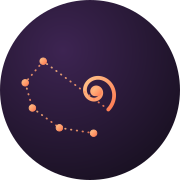
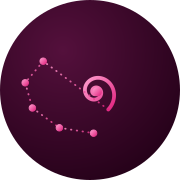
Add files via upload

diff --git a/assets/css/style.css b/assets/css/style.css
@@ -7,23 +7,23 @@
 
 :root{
   /* ---- palette : notte onirica + terracotta calda ---- */
-  --deep-1:#150f1c;
-  --deep-2:#241a33;
-  --deep-3:#33224a;
-  --paper:#faf5ec;
-  --paper-soft:#f3ead9;
-  --paper-dim:#e9dcc6;
-  --ink:#1d1620;
-  --ink-soft:#584d63;
-  --ink-faint:#8a7f92;
-  --coral:#ff6b4a;
-  --coral-deep:#e0502f;
-  --coral-light:#ffb27a;
-  --gold:#f2b84b;
-  --lilac:#a996e6;
-  --lilac-soft:#cabdf2;
+  --deep-1:#210016;
+  --deep-2:#3a0729;
+  --deep-3:#54103c;
+  --paper:#fffbf4;
+  --paper-soft:#fbf0e4;
+  --paper-dim:#f3e2ce;
+  --ink:#241019;
+  --ink-soft:#6b4f60;
+  --ink-faint:#a58a9b;
+  --coral:#e0227e;
+  --coral-deep:#a6115c;
+  --coral-light:#ff8fc4;
+  --gold:#f0a8cb;
+  --lilac:#c13e93;
+  --lilac-soft:#f3c6e1;
   --line-dark: rgba(255,255,255,.14);
-  --line-light: rgba(29,22,32,.12);
+  --line-light: rgba(36,16,25,.12);
 
   --font-display: "Fraunces", "Iowan Old Style", serif;
   --font-body: "Sora", "Segoe UI", sans-serif;
@@ -33,8 +33,8 @@
   --radius-md: 18px;
   --radius-sm: 10px;
 
-  --shadow-soft: 0 20px 60px -20px rgba(21,15,28,.35);
-  --shadow-card: 0 12px 30px -12px rgba(21,15,28,.22);
+  --shadow-soft: 0 20px 60px -20px rgba(36,16,25,.35);
+  --shadow-card: 0 12px 30px -12px rgba(36,16,25,.22);
 
   --ease: cubic-bezier(.16,.8,.24,1);
 }
@@ -79,7 +79,7 @@ input,textarea,select{ font-family:inherit; font-size:1rem; }
 .on-dark .eyebrow, .hero .eyebrow, .section-dark .eyebrow, .page-hero .eyebrow{ color:var(--coral-light); }
 
 .lede{ font-size:1.2rem; color:var(--ink-soft); max-width:640px; }
-.on-dark .lede{ color:#d9d0e6; }
+.on-dark .lede{ color:#ecd0df; }
 
 /* ---------- buttons ---------- */
 .btn{
@@ -88,11 +88,11 @@ input,textarea,select{ font-family:inherit; font-size:1rem; }
   border:1px solid transparent; transition:transform .35s var(--ease), box-shadow .35s var(--ease), background .35s var(--ease), color .35s var(--ease), border-color .35s var(--ease);
   white-space:nowrap;
 }
-.btn-primary{ background:linear-gradient(135deg,var(--coral-light),var(--coral)); color:#1c0f0a; box-shadow:0 14px 30px -12px rgba(255,107,74,.55); }
-.btn-primary:hover{ transform:translateY(-2px); box-shadow:0 18px 34px -10px rgba(255,107,74,.65); }
+.btn-primary{ background:linear-gradient(135deg,var(--coral-light),var(--coral)); color:#1c0f0a; box-shadow:0 14px 30px -12px rgba(224,34,126,.55); }
+.btn-primary:hover{ transform:translateY(-2px); box-shadow:0 18px 34px -10px rgba(224,34,126,.65); }
 .btn-ghost{ background:transparent; border-color:var(--line-light); color:var(--ink); }
 .btn-ghost:hover{ border-color:var(--ink); }
-.on-dark .btn-ghost, .hero .btn-ghost, .section-dark .btn-ghost, .page-hero .btn-ghost{ border-color:var(--line-dark); color:#f4eee0; }
+.on-dark .btn-ghost, .hero .btn-ghost, .section-dark .btn-ghost, .page-hero .btn-ghost{ border-color:var(--line-dark); color:#fbeef4; }
 .on-dark .btn-ghost:hover, .hero .btn-ghost:hover, .section-dark .btn-ghost:hover, .page-hero .btn-ghost:hover{ border-color:#fff; }
 .btn-line{ background:none; padding:0; border-radius:0; gap:8px; font-weight:600; color:var(--coral-deep); border-bottom:1px solid currentColor; padding-bottom:2px; }
 .btn-line:hover{ gap:12px; }
@@ -109,24 +109,24 @@ input,textarea,select{ font-family:inherit; font-size:1rem; }
 }
 .site-nav .container{ display:flex; align-items:center; justify-content:space-between; gap:24px; flex-wrap:nowrap; }
 .nav-toggle{ flex-shrink:0; }
-.brand{ min-width:0; }
+.brand{ flex-shrink:0; }
 .site-nav.is-scrolled{
   padding:12px 0;
-  background:rgba(21,15,28,.82);
+  background:rgba(36,16,25,.82);
   backdrop-filter:blur(14px);
   box-shadow:0 10px 30px -18px rgba(0,0,0,.5);
 }
-.brand{ display:flex; align-items:center; gap:12px; color:#f6f0e4; }
+.brand{ display:flex; align-items:center; gap:12px; color:#fbeef4; }
 .brand-mark{ width:38px; height:38px; color:var(--coral-light); flex-shrink:0; }
 .brand-mark svg{ width:100%; height:100%; }
-.brand-text{ display:flex; flex-direction:column; line-height:1.15; }
-.brand-name{ font-family:var(--font-display); font-size:1.05rem; font-weight:600; letter-spacing:.01em; }
-.brand-tag{ font-size:.68rem; letter-spacing:.1em; text-transform:uppercase; opacity:.68; }
+.brand-text{ display:flex; flex-direction:column; line-height:1.15; white-space:nowrap; }
+.brand-name{ font-family:var(--font-display); font-size:1.05rem; font-weight:600; letter-spacing:.01em; white-space:nowrap; }
+.brand-tag{ font-size:.68rem; letter-spacing:.1em; text-transform:uppercase; opacity:.68; white-space:nowrap; }
 
 .nav-links{ display:flex; align-items:center; gap:0; }
 .nav-links a{
   display:inline-block; padding:9px 11px; font-size:.8rem; font-weight:500; white-space:nowrap;
-  color:#e9e2f2; opacity:.78; border-radius:100px; transition:opacity .25s, background .25s;
+  color:#f2dbe9; opacity:.78; border-radius:100px; transition:opacity .25s, background .25s;
 }
 .nav-links a:hover{ opacity:1; background:rgba(255,255,255,.08); }
 .nav-links a.active{ opacity:1; color:var(--coral-light); }
@@ -136,7 +136,7 @@ input,textarea,select{ font-family:inherit; font-size:1rem; }
   background:rgba(255,255,255,.05); position:relative; flex-shrink:0;
 }
 .nav-toggle span, .nav-toggle::before, .nav-toggle::after{
-  content:""; position:absolute; left:12px; right:12px; height:1.5px; background:#f4eee0;
+  content:""; position:absolute; left:12px; right:12px; height:1.5px; background:#fbeef4;
   transition:transform .3s var(--ease), opacity .3s var(--ease), top .3s var(--ease);
 }
 .nav-toggle::before{ top:16px; }
@@ -167,7 +167,7 @@ input,textarea,select{ font-family:inherit; font-size:1rem; }
 .hero{
   position:relative; min-height:100svh; display:flex; align-items:center;
   background:radial-gradient(120% 90% at 18% 8%, var(--deep-3), var(--deep-1) 62%);
-  color:#f6f0e4; overflow:hidden; padding-top:120px; padding-bottom:80px;
+  color:#fbeef4; overflow:hidden; padding-top:120px; padding-bottom:80px;
 }
 .hero-canvas{ position:absolute; inset:0; width:100%; height:100%; opacity:.65; }
 .hero-glow{
@@ -187,7 +187,7 @@ input,textarea,select{ font-family:inherit; font-size:1rem; }
 .typewriter{
   font-family:var(--font-display); font-style:italic; font-weight:500;
   font-size:clamp(1.7rem, 4.4vw, 3.2rem); line-height:1.28; letter-spacing:-.01em;
-  color:#fbf6ec;
+  color:#fdf3f8;
 }
 .typewriter .cursor{
   display:inline-block; width:3px; height:1em; background:var(--coral-light);
@@ -196,7 +196,7 @@ input,textarea,select{ font-family:inherit; font-size:1rem; }
 @keyframes blink{ 50%{ opacity:0; } }
 
 .hero-sub{
-  margin-top:30px; font-size:1.15rem; color:#d9d0e6; max-width:560px;
+  margin-top:30px; font-size:1.15rem; color:#ecd0df; max-width:560px;
   opacity:0; transform:translateY(10px);
   transition:opacity .9s var(--ease), transform .9s var(--ease);
 }
@@ -215,21 +215,21 @@ input,textarea,select{ font-family:inherit; font-size:1rem; }
   opacity:0; transform:translateY(10px);
   transition:opacity .9s var(--ease), transform .9s var(--ease);
 }
-.hero-credentials div{ font-size:.8rem; color:#c9bfda; }
-.hero-credentials strong{ display:block; font-family:var(--font-display); font-size:1.5rem; color:#fbf6ec; font-weight:600; }
+.hero-credentials div{ font-size:.8rem; color:#d9b8cd; }
+.hero-credentials strong{ display:block; font-family:var(--font-display); font-size:1.5rem; color:#fdf3f8; font-weight:600; }
 
 .scroll-cue{
   position:absolute; left:50%; bottom:34px; transform:translateX(-50%);
-  display:flex; flex-direction:column; align-items:center; gap:8px; color:#cabdf2; font-size:.7rem;
+  display:flex; flex-direction:column; align-items:center; gap:8px; color:#eab8d9; font-size:.7rem;
   letter-spacing:.14em; text-transform:uppercase; opacity:0;
   transition:opacity 1s var(--ease);
 }
-.scroll-cue .line{ width:1px; height:34px; background:linear-gradient(#cabdf2, transparent); animation:cue-move 2.2s ease-in-out infinite; }
+.scroll-cue .line{ width:1px; height:34px; background:linear-gradient(#eab8d9, transparent); animation:cue-move 2.2s ease-in-out infinite; }
 @keyframes cue-move{ 0%{ transform:scaleY(.4); transform-origin:top; } 50%{ transform:scaleY(1); transform-origin:top; } 100%{ transform:scaleY(.4); transform-origin:top; } }
 
 /* page hero (sottopagine) */
 .page-hero{
-  position:relative; padding:190px 0 100px; color:#f6f0e4; overflow:hidden;
+  position:relative; padding:190px 0 100px; color:#fbeef4; overflow:hidden;
   background:radial-gradient(130% 100% at 85% 0%, var(--deep-3), var(--deep-1) 60%);
 }
 .page-hero .blob{ position:absolute; filter:blur(60px); opacity:.5; mix-blend-mode:screen; border-radius:50%; }
@@ -261,7 +261,7 @@ input,textarea,select{ font-family:inherit; font-size:1rem; }
 .manifesto-visual .ring.r1{ inset:0; }
 .manifesto-visual .ring.r2{ inset:12%; border-style:dashed; opacity:.6; }
 .manifesto-visual .ring.r3{ inset:24%; background:linear-gradient(135deg, var(--paper-dim), var(--paper-soft)); border:none; }
-.manifesto-visual .spark{ position:absolute; width:10px; height:10px; border-radius:50%; background:var(--coral); box-shadow:0 0 0 6px rgba(255,107,74,.15); }
+.manifesto-visual .spark{ position:absolute; width:10px; height:10px; border-radius:50%; background:var(--coral); box-shadow:0 0 0 6px rgba(224,34,126,.15); }
 .manifesto-visual .mark-center{ position:absolute; inset:32%; color:var(--coral-deep); }
 .manifesto-visual .mark-center svg{ width:100%; height:100%; }
 
@@ -289,11 +289,11 @@ input,textarea,select{ font-family:inherit; font-size:1rem; }
 
 .service-card{
   position:relative; background:#fff; border-radius:var(--radius-md); padding:38px 32px;
-  box-shadow:var(--shadow-card); border:1px solid rgba(29,22,32,.05);
+  box-shadow:var(--shadow-card); border:1px solid rgba(36,16,25,.05);
   transition:transform .45s var(--ease), box-shadow .45s var(--ease);
   display:flex; flex-direction:column; height:100%;
 }
-.service-card:hover{ transform:translateY(-6px); box-shadow:0 26px 50px -18px rgba(21,15,28,.28); }
+.service-card:hover{ transform:translateY(-6px); box-shadow:0 26px 50px -18px rgba(36,16,25,.28); }
 .service-card .icon{
   width:52px; height:52px; border-radius:16px; display:flex; align-items:center; justify-content:center;
   margin-bottom:22px; color:#fff; background:linear-gradient(135deg,var(--coral-light),var(--coral-deep));
@@ -311,8 +311,8 @@ input,textarea,select{ font-family:inherit; font-size:1rem; }
    DARK SECTION (crisis / cta banners)
    ========================================================= */
 .section-dark{ background:var(--deep-1); color:#f2ece0; position:relative; overflow:hidden; }
-.section-dark .lede{ color:#cfc4dd; }
-.section-dark h2{ color:#fbf6ec; }
+.section-dark .lede{ color:#ddbdd0; }
+.section-dark h2{ color:#fdf3f8; }
 
 .crisis-card{
   position:relative; z-index:1; display:grid; grid-template-columns:1.1fr .9fr; gap:60px; align-items:center;
@@ -334,7 +334,7 @@ input,textarea,select{ font-family:inherit; font-size:1rem; }
 }
 .about-photo .frame img{ width:100%; height:100%; object-fit:cover; filter:saturate(1.05) contrast(1.03); }
 .about-photo .frame::after{
-  content:""; position:absolute; inset:0; background:linear-gradient(200deg, rgba(255,107,74,.16), rgba(36,26,51,.22));
+  content:""; position:absolute; inset:0; background:linear-gradient(200deg, rgba(224,34,126,.16), rgba(58,7,41,.22));
   mix-blend-mode:multiply; opacity:.5;
 }
 .about-photo .ring-deco{ position:absolute; inset:-18px; border:1px dashed var(--line-light); border-radius:38% 62% 60% 40% / 46% 40% 60% 54%; z-index:-1; }
@@ -358,11 +358,11 @@ input,textarea,select{ font-family:inherit; font-size:1rem; }
 .footer-grid{ display:grid; grid-template-columns:1.3fr 1fr 1fr 1fr; gap:40px; padding-bottom:56px; border-bottom:1px solid var(--line-dark); }
 @media (max-width:900px){ .footer-grid{ grid-template-columns:1fr 1fr; } }
 @media (max-width:560px){ .footer-grid{ grid-template-columns:1fr; } }
-.footer-brand p{ color:#c9bfda; font-size:.92rem; max-width:280px; }
+.footer-brand p{ color:#d9b8cd; font-size:.92rem; max-width:280px; }
 .footer-col h4{ font-family:var(--font-body); font-size:.78rem; letter-spacing:.1em; text-transform:uppercase; color:var(--coral-light); margin-bottom:16px; }
-.footer-col a, .footer-col p{ display:block; color:#d8d0e4; font-size:.92rem; margin-bottom:10px; opacity:.9; }
+.footer-col a, .footer-col p{ display:block; color:#e6cddc; font-size:.92rem; margin-bottom:10px; opacity:.9; }
 .footer-col a:hover{ color:#fff; opacity:1; }
-.footer-bottom{ display:flex; justify-content:space-between; align-items:center; padding-top:26px; flex-wrap:wrap; gap:10px; font-size:.78rem; color:#9c8fae; }
+.footer-bottom{ display:flex; justify-content:space-between; align-items:center; padding-top:26px; flex-wrap:wrap; gap:10px; font-size:.78rem; color:#a98a9c; }
 .footer-bottom a:hover{ color:#fff; }
 
 /* =========================================================
@@ -394,9 +394,9 @@ input,textarea,select{ font-family:inherit; font-size:1rem; }
 
 .pricing-grid{ display:grid; grid-template-columns:repeat(2,1fr); gap:24px; margin:30px 0 10px; }
 @media (max-width:640px){ .pricing-grid{ grid-template-columns:1fr; } }
-.price-card{ padding:28px; border-radius:var(--radius-md); background:var(--deep-1); color:#f4eee0; position:relative; overflow:hidden; }
+.price-card{ padding:28px; border-radius:var(--radius-md); background:var(--deep-1); color:#fbeef4; position:relative; overflow:hidden; }
 .price-card .amount{ font-family:var(--font-display); font-size:2.2rem; color:var(--coral-light); margin:8px 0; }
-.price-card p{ color:#c9bfda; font-size:.9rem; margin:0; }
+.price-card p{ color:#d9b8cd; font-size:.9rem; margin:0; }
 .price-card.alt{ background:var(--paper-soft); color:var(--ink); }
 .price-card.alt .amount{ color:var(--coral-deep); }
 .price-card.alt p{ color:var(--ink-soft); }

diff --git a/index.html b/index.html
@@ -13,7 +13,7 @@
 <meta property="og:description" content="Psicoterapia, Costellazioni Familiari, Mindfulness e Mindful Eating: la cura psicologica attraverso l'immaginario, a Cesano Maderno (MB) e online.">
 <meta property="og:type" content="website">
 <meta property="og:image" content="assets/img/favicon-512.png">
-<meta name="theme-color" content="#150f1c">
+<meta name="theme-color" content="#210016">
 <link rel="preconnect" href="https://fonts.googleapis.com">
 <link rel="preconnect" href="https://fonts.gstatic.com" crossorigin>
 <link rel="stylesheet" href="assets/css/style.css">
@@ -131,16 +131,16 @@
       <svg viewBox="0 0 400 500" preserveAspectRatio="xMidYMid slice">
         <defs>
           <radialGradient id="crisisGrad" cx="30%" cy="20%" r="90%">
-            <stop offset="0%" stop-color="#4a3163"/>
-            <stop offset="100%" stop-color="#1c1327"/>
+            <stop offset="0%" stop-color="#54103c"/>
+            <stop offset="100%" stop-color="#210016"/>
           </radialGradient>
         </defs>
         <rect width="400" height="500" fill="url(#crisisGrad)"/>
-        <g stroke="#ffb27a" stroke-width="1" opacity="0.55" fill="none">
+        <g stroke="#ff8fc4" stroke-width="1" opacity="0.55" fill="none">
           <path d="M40 420 Q120 320 90 220 Q60 120 160 60"/>
           <path d="M360 440 Q290 360 320 260 Q350 160 260 90"/>
         </g>
-        <g fill="#ff9a62">
+        <g fill="#ff5fa8">
           <circle cx="160" cy="60" r="4"/>
           <circle cx="90" cy="220" r="3"/>
           <circle cx="40" cy="420" r="3.4"/>

diff --git a/assets/js/main.js b/assets/js/main.js
@@ -146,7 +146,7 @@
           var dx=p1.x-p2.x, dy=p1.y-p2.y;
           var dist=Math.sqrt(dx*dx+dy*dy);
           if(dist < maxDist){
-            ctx.strokeStyle = "rgba(255,178,122," + (0.16*(1-dist/maxDist)) + ")";
+            ctx.strokeStyle = "rgba(255,143,196," + (0.18*(1-dist/maxDist)) + ")";
             ctx.lineWidth = 1;
             ctx.beginPath(); ctx.moveTo(p1.x,p1.y); ctx.lineTo(p2.x,p2.y); ctx.stroke();
           }
@@ -154,7 +154,7 @@
       }
       points.forEach(function(p){
         ctx.beginPath();
-        ctx.fillStyle = "rgba(250,230,210,.85)";
+        ctx.fillStyle = "rgba(255,251,244,.9)";
         ctx.arc(p.x,p.y,p.r,0,Math.PI*2);
         ctx.fill();
       });

diff --git a/gravidanza.html b/gravidanza.html
@@ -13,7 +13,7 @@
 <meta property="og:description" content="Prevenire sovrappeso e obesità in gravidanza: cause ormonali e psicologiche delle voglie, e come gestirle con l'aiuto dello psicologo del comportamento alimentare.">
 <meta property="og:type" content="website">
 <meta property="og:image" content="assets/img/favicon-512.png">
-<meta name="theme-color" content="#150f1c">
+<meta name="theme-color" content="#210016">
 <link rel="preconnect" href="https://fonts.googleapis.com">
 <link rel="preconnect" href="https://fonts.gstatic.com" crossorigin>
 <link rel="stylesheet" href="assets/css/style.css">

diff --git a/pensa-snello.html b/pensa-snello.html
@@ -13,7 +13,7 @@
 <meta property="og:description" content="Pensa Snello: terapia cognitivo comportamentale e rêve-éveillé per rieducare il comportamento alimentare, perdere peso e mantenere il risultato nel tempo.">
 <meta property="og:type" content="website">
 <meta property="og:image" content="assets/img/favicon-512.png">
-<meta name="theme-color" content="#150f1c">
+<meta name="theme-color" content="#210016">
 <link rel="preconnect" href="https://fonts.googleapis.com">
 <link rel="preconnect" href="https://fonts.gstatic.com" crossorigin>
 <link rel="stylesheet" href="assets/css/style.css">

diff --git a/psicoterapia.html b/psicoterapia.html
@@ -13,7 +13,7 @@
 <meta property="og:description" content="Psicoterapia ad orientamento psicodinamico basata sul rêve-éveillé di Robert Desoille: un percorso individuale, di coppia o di gruppo a Cesano Maderno.">
 <meta property="og:type" content="website">
 <meta property="og:image" content="assets/img/favicon-512.png">
-<meta name="theme-color" content="#150f1c">
+<meta name="theme-color" content="#210016">
 <link rel="preconnect" href="https://fonts.googleapis.com">
 <link rel="preconnect" href="https://fonts.gstatic.com" crossorigin>
 <link rel="stylesheet" href="assets/css/style.css">

diff --git a/consulenze-on-line.html b/consulenze-on-line.html
@@ -13,7 +13,7 @@
 <meta property="og:description" content="Consulenza psicologica online via e-mail, chat o videochiamata, nel rispetto delle linee guida deontologiche del Consiglio Nazionale degli Psicologi.">
 <meta property="og:type" content="website">
 <meta property="og:image" content="assets/img/favicon-512.png">
-<meta name="theme-color" content="#150f1c">
+<meta name="theme-color" content="#210016">
 <link rel="preconnect" href="https://fonts.googleapis.com">
 <link rel="preconnect" href="https://fonts.gstatic.com" crossorigin>
 <link rel="stylesheet" href="assets/css/style.css">

diff --git a/costellazioni.html b/costellazioni.html
@@ -13,7 +13,7 @@
 <meta property="og:description" content="Psicogenealogia e Costellazioni Familiari ad approccio immaginale: genogramma, carte dei NAT e messa in scena, in consulto individuale o di gruppo.">
 <meta property="og:type" content="website">
 <meta property="og:image" content="assets/img/favicon-512.png">
-<meta name="theme-color" content="#150f1c">
+<meta name="theme-color" content="#210016">
 <link rel="preconnect" href="https://fonts.googleapis.com">
 <link rel="preconnect" href="https://fonts.gstatic.com" crossorigin>
 <link rel="stylesheet" href="assets/css/style.css">

diff --git a/mindful-eating.html b/mindful-eating.html
@@ -13,7 +13,7 @@
 <meta property="og:description" content="Il corso di Mindful Eating: 9 incontri per ritrovare il dialogo mente-corpo, riconoscere fame e sazietà e correggere il comportamento alimentare.">
 <meta property="og:type" content="website">
 <meta property="og:image" content="assets/img/favicon-512.png">
-<meta name="theme-color" content="#150f1c">
+<meta name="theme-color" content="#210016">
 <link rel="preconnect" href="https://fonts.googleapis.com">
 <link rel="preconnect" href="https://fonts.gstatic.com" crossorigin>
 <link rel="stylesheet" href="assets/css/style.css">

diff --git a/curriculum-vitae.html b/curriculum-vitae.html
@@ -13,7 +13,7 @@
 <meta property="og:description" content="Il percorso professionale e formativo di Roberta Musetti, Psicologa Psicoterapeuta iscritta all'Ordine degli Psicologi della Lombardia dal 2002.">
 <meta property="og:type" content="website">
 <meta property="og:image" content="assets/img/favicon-512.png">
-<meta name="theme-color" content="#150f1c">
+<meta name="theme-color" content="#210016">
 <link rel="preconnect" href="https://fonts.googleapis.com">
 <link rel="preconnect" href="https://fonts.gstatic.com" crossorigin>
 <link rel="stylesheet" href="assets/css/style.css">

diff --git a/mindfulness.html b/mindfulness.html
@@ -13,7 +13,7 @@
 <meta property="og:description" content="Mindfulness e Mindfulness Immaginale: consapevolezza del momento presente, tra meditazione, psicologia immaginale e riduzione dello stress.">
 <meta property="og:type" content="website">
 <meta property="og:image" content="assets/img/favicon-512.png">
-<meta name="theme-color" content="#150f1c">
+<meta name="theme-color" content="#210016">
 <link rel="preconnect" href="https://fonts.googleapis.com">
 <link rel="preconnect" href="https://fonts.gstatic.com" crossorigin>
 <link rel="stylesheet" href="assets/css/style.css">

diff --git a/momento-di-crisi.html b/momento-di-crisi.html
@@ -13,7 +13,7 @@
 <meta property="og:description" content="Attraversi un momento di crisi con te stesso o con gli altri? Come la psicoterapia può aiutarti a riorganizzare le tue strategie di vita.">
 <meta property="og:type" content="website">
 <meta property="og:image" content="assets/img/favicon-512.png">
-<meta name="theme-color" content="#150f1c">
+<meta name="theme-color" content="#210016">
 <link rel="preconnect" href="https://fonts.googleapis.com">
 <link rel="preconnect" href="https://fonts.gstatic.com" crossorigin>
 <link rel="stylesheet" href="assets/css/style.css">
